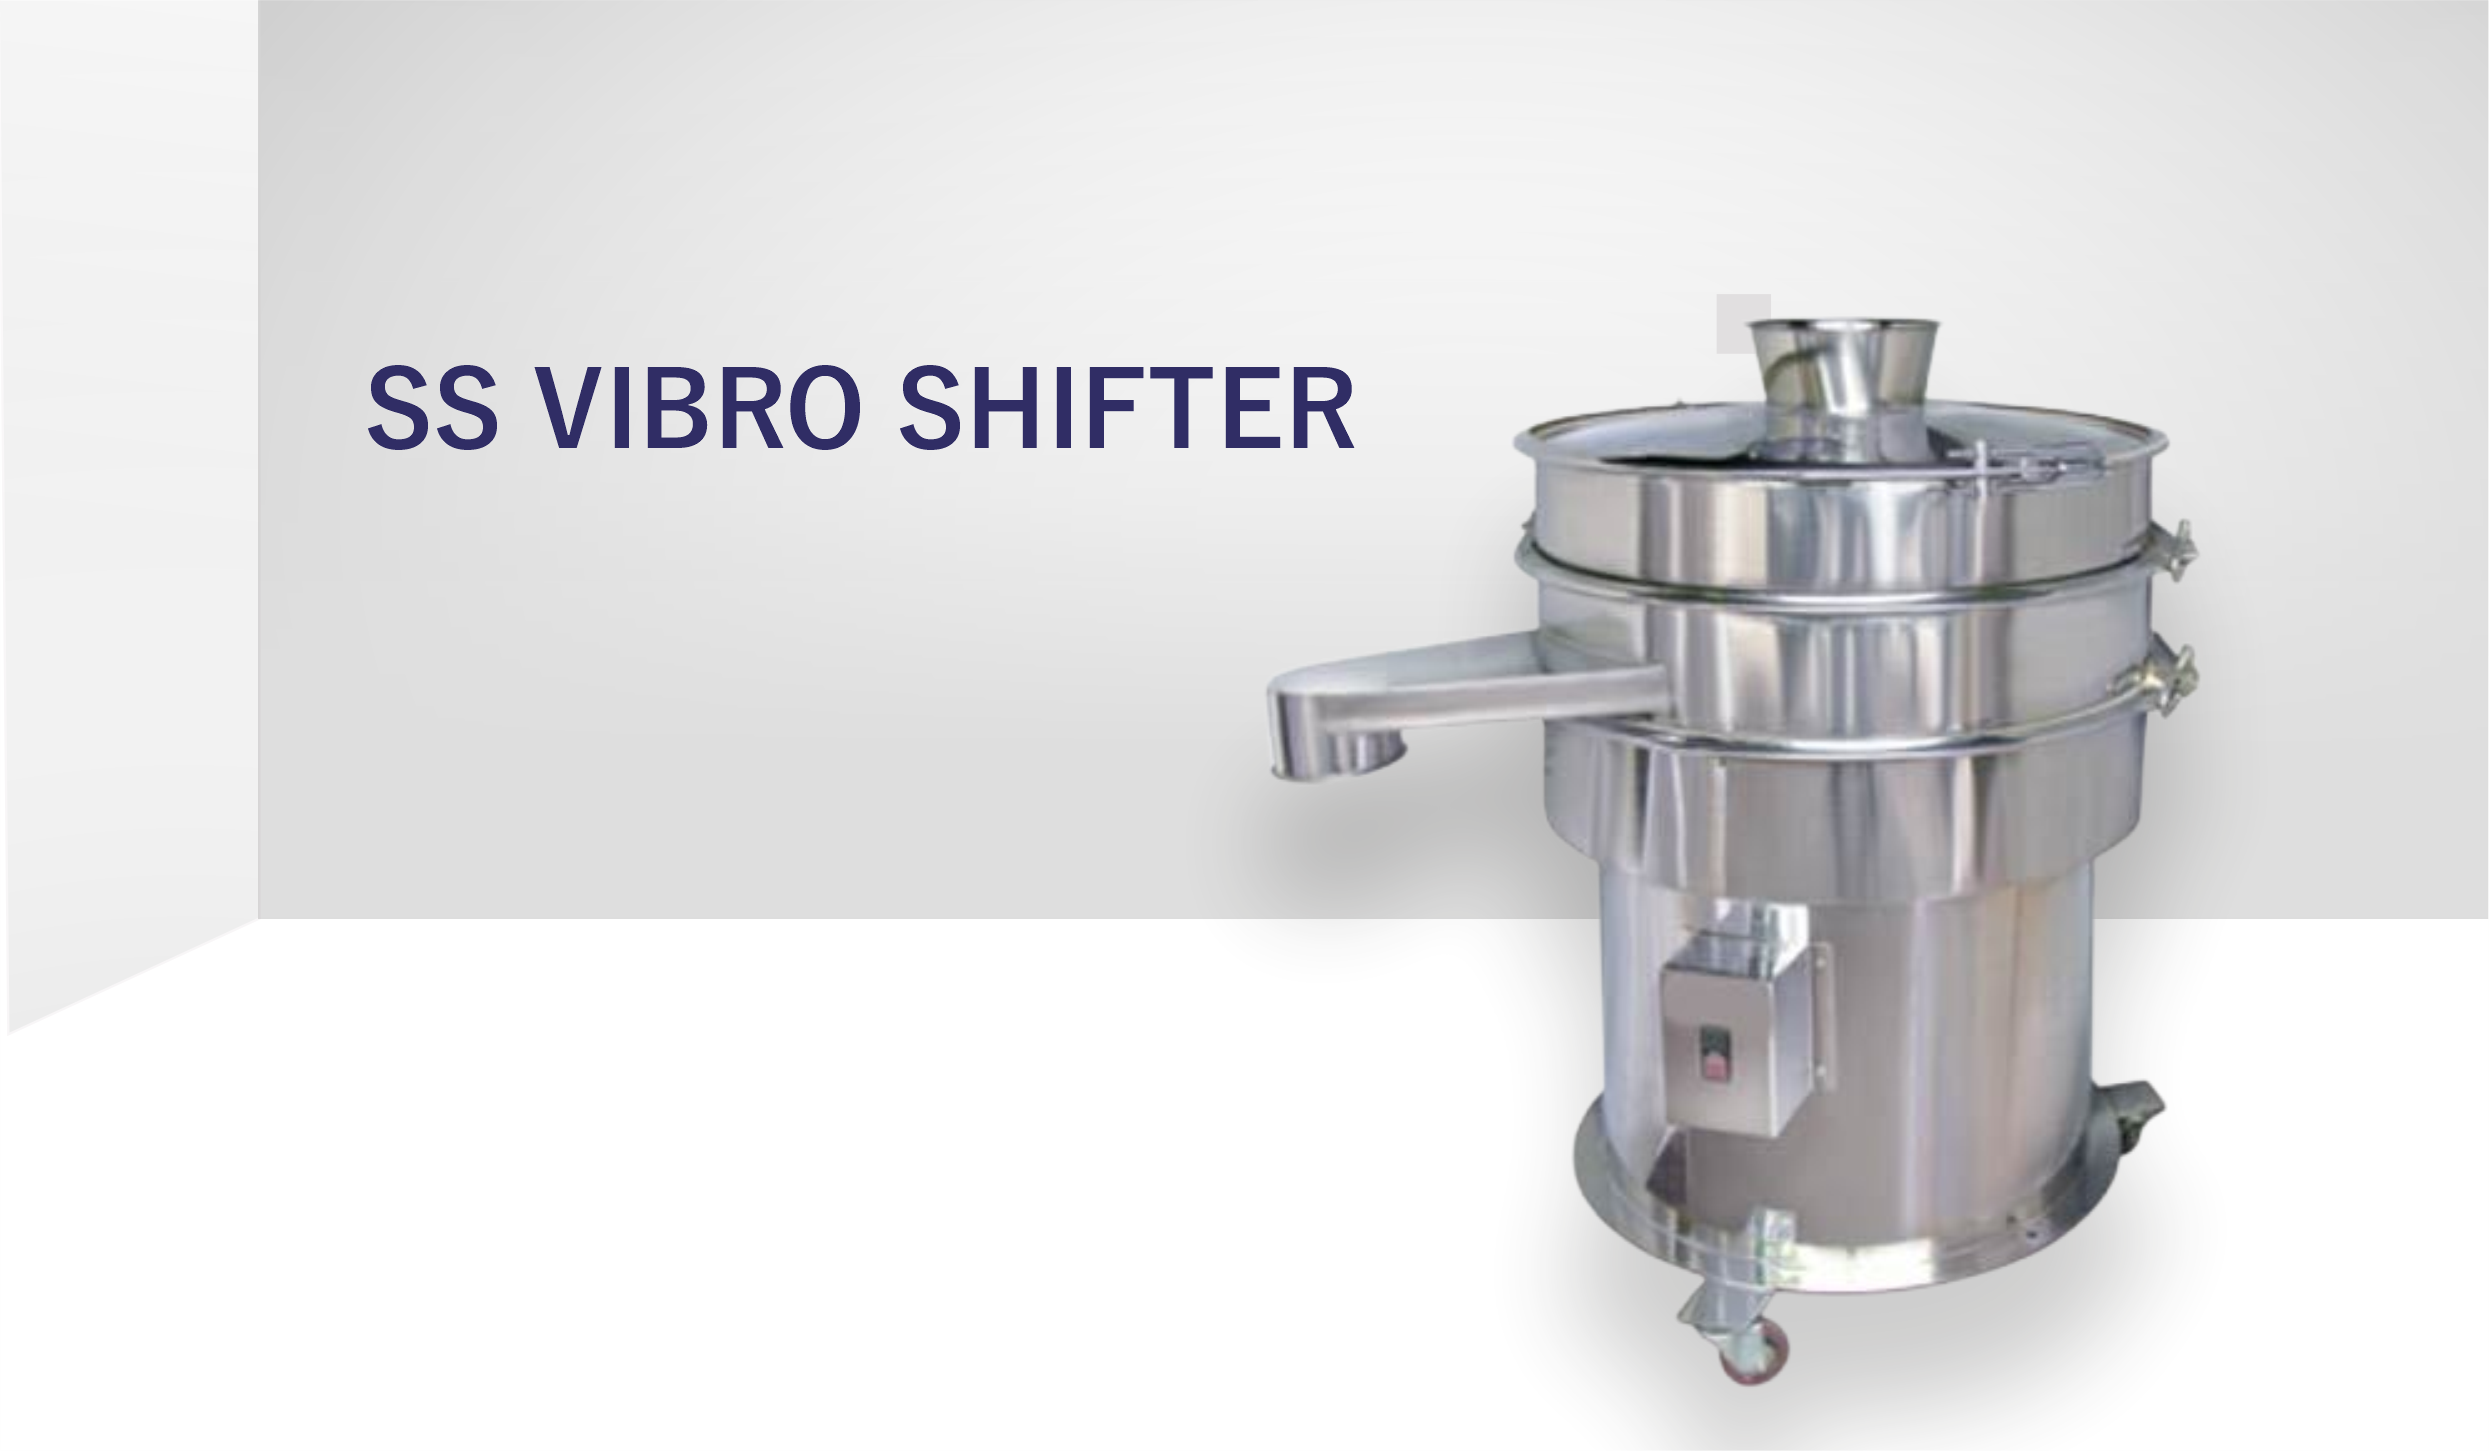
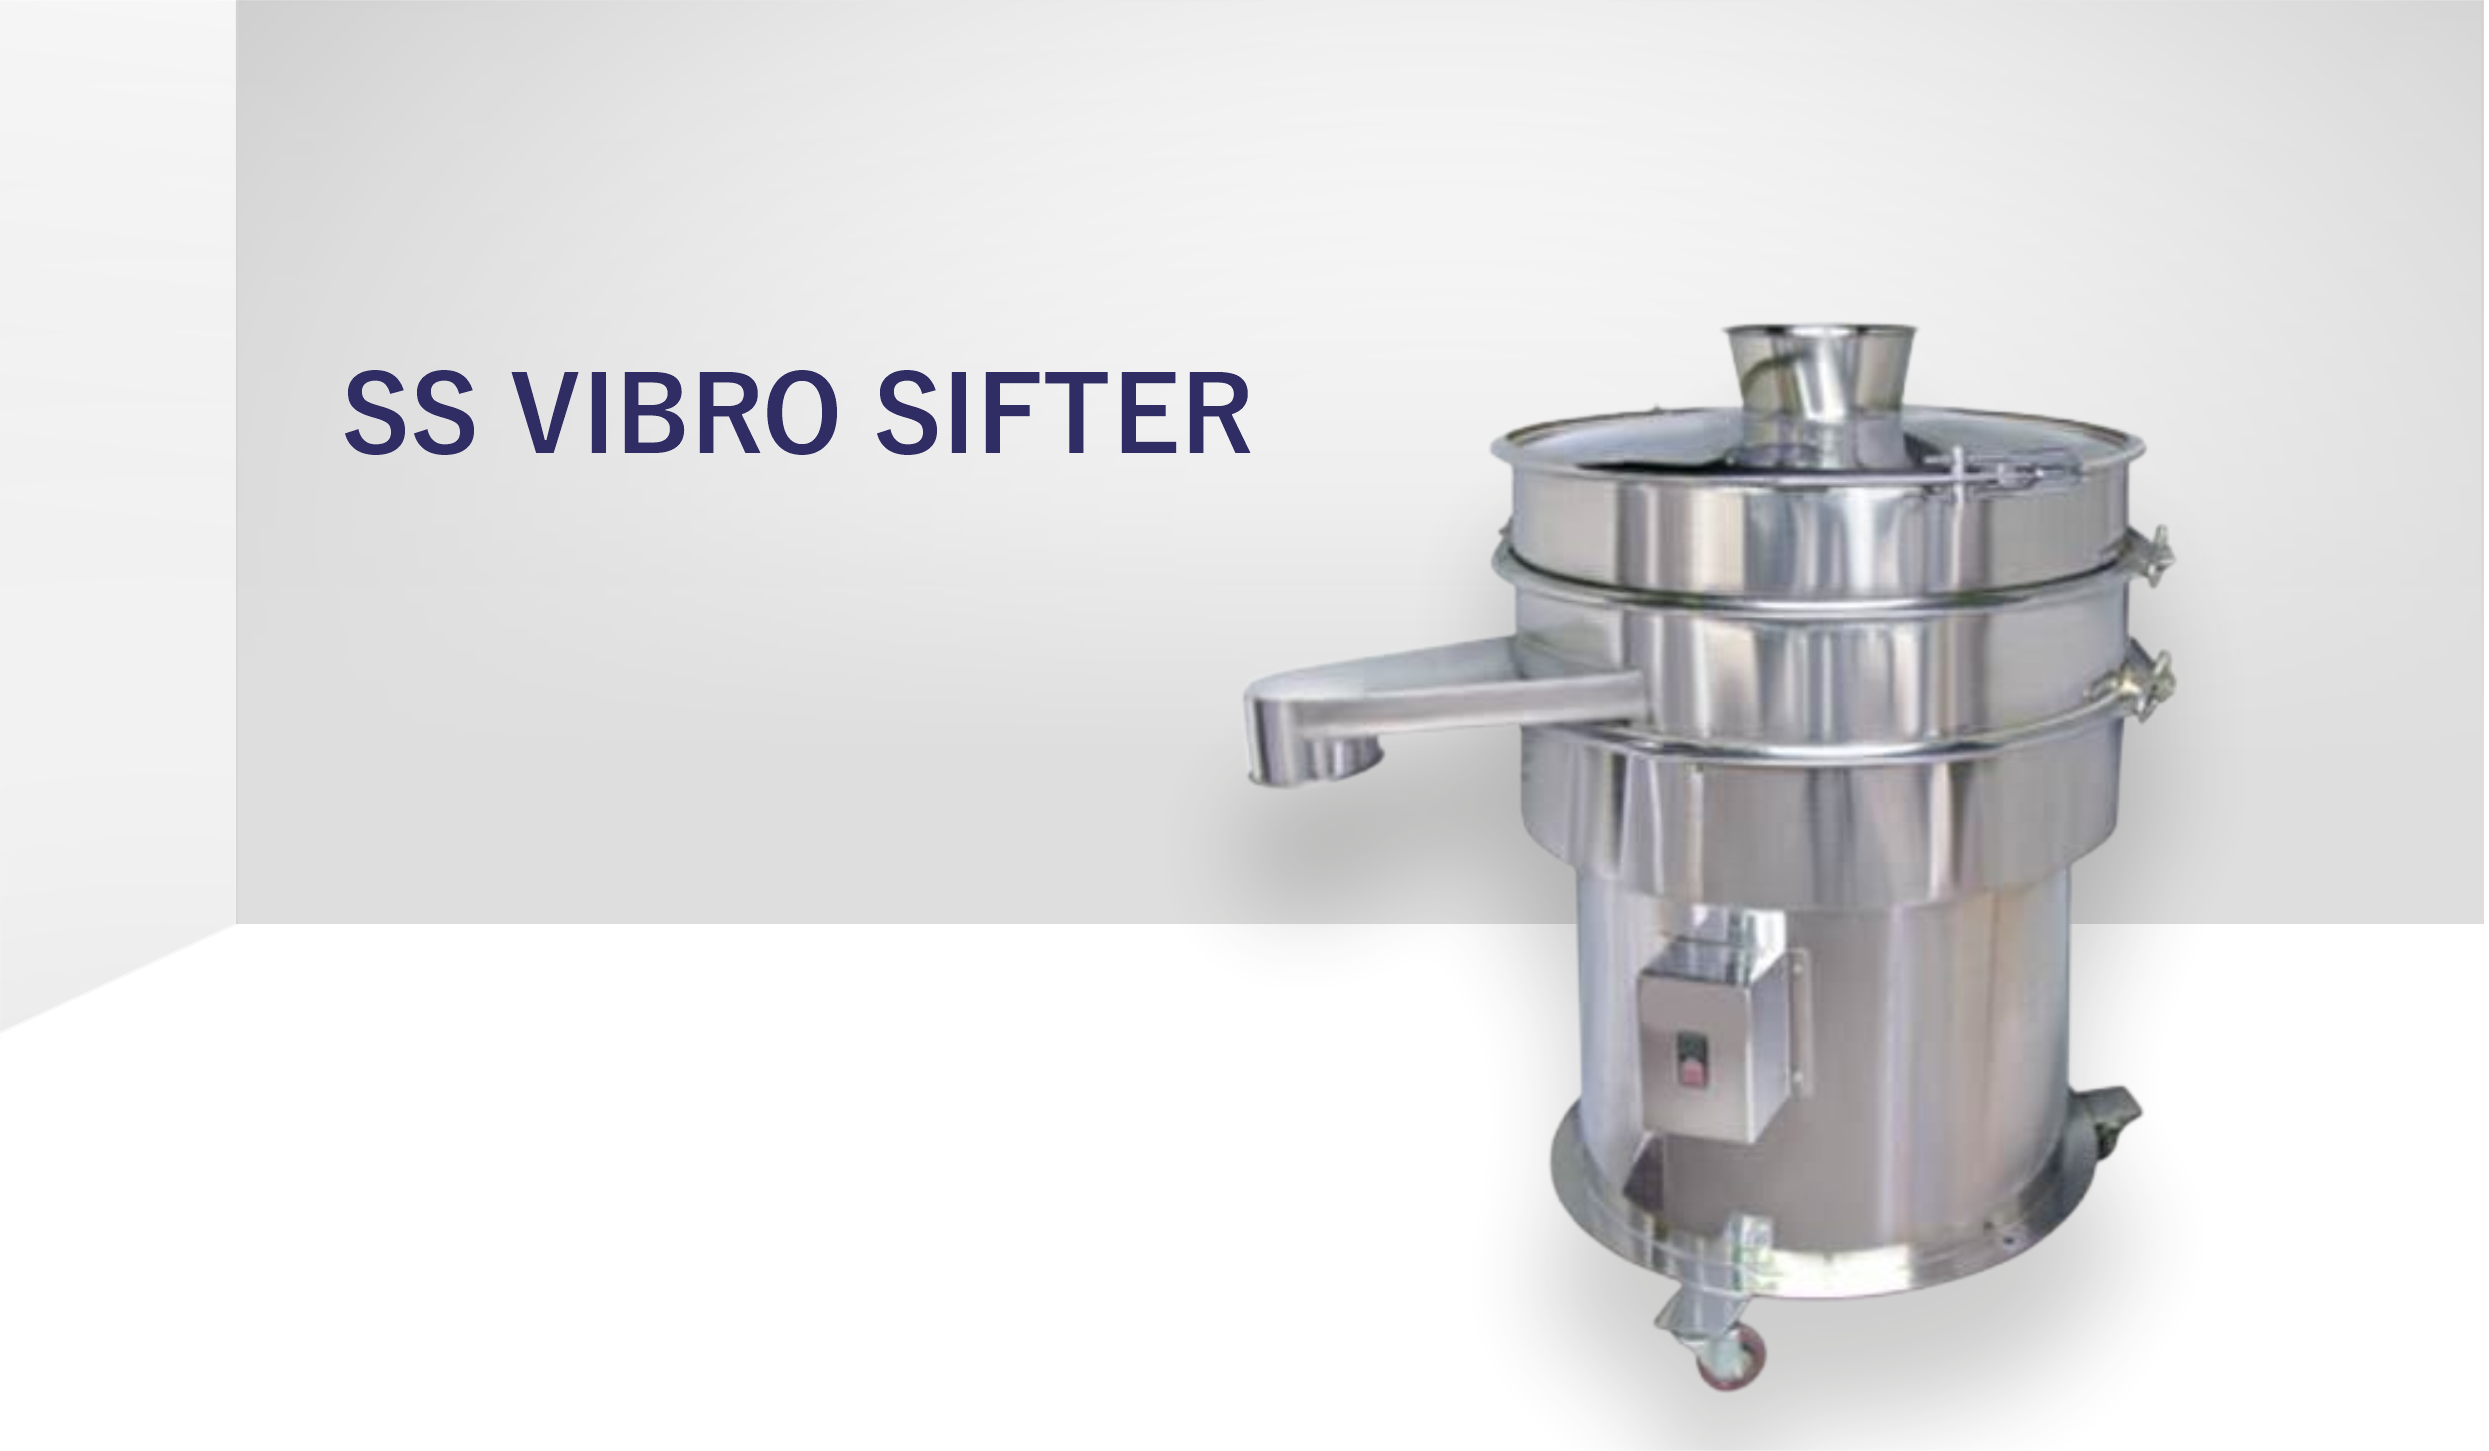
work on client changes sifter image change  and spelling err

Changed region(s): [[0.1237, 0.0, 1.0, 0.9614], [0.1237, 0.2481, 0.5569, 0.3101], [0.0928, 0.0, 0.1237, 0.2171]]

diff --git a/index.html b/index.html
@@ -69,8 +69,8 @@
               </div> -->
               <div class="dir-ltr  section_content" id="home_content">
 
-                <h1>Total Cleanroom Solutions under one roof </h1>
-                <p style=>Innovas Technobuild is a passionate turnkey project company incepted by a group of like minded
+                <h1>Total Cleanroom Solutions Under One Roof </h1>
+                <p style=>Innovas Techno Build is a passionate turnkey project company incepted by a group of like minded
                   professionals having rich demonstrate work experience. </p>
 
                 <div style="height: 40px;"></div>
@@ -99,7 +99,7 @@
               </div>
               <div class="dir-ltr alignleft section_content" id="abt_content">
                 <div>
-                  <p>Innovas Technobuild is a passionate turnkey project company incepted by a group of like minded
+                  <p>Innovas Techno Build is a passionate turnkey project company incepted by a group of like minded
                     professionals having rich demonstrate work experience. </p>
 
                   <p>Our team of engineering professional is immensely commited to offer wide range of technical and
@@ -706,15 +706,14 @@
 
 
               <h3 class="">CLEANROOM PANEL </h3>
-              <p class="project_details"> Cleanroom Panel system adapteda variety of cleanroom modular panel system.
-                The
-                Product has excellent performance, factory fabricating on site and easy instaltation.<span
+              <p class="project_details"> Cleanroom Panel system adapted a variety of cleanroom modular panel system.
+                The Product has excellent performance, factory fabricating on site and easy instaltation.<span
                   id="dots2">...</span><span id="more2">
-                  Moduler clean rooms are engineered and bulit to meet exact size and environmental
-                  requirements and specifications. t is required to control the contaminated particle in the
+                  Moduler clean rooms are engineered and built to meet exact size and environmental
+                  requirements and specifications. It is required to control the contaminated particle in the
                   room. It avoids the cross contamination. All components come with a performance
-                  guarantee. The modular clean room components are impact resistant, chemical&water
-                  resistant & non-shedding. haveexcellent fire rating, can be sanitized& are essential
+                  guarantee. The modular clean room components are impact resistant, chemical & water
+                  resistant & non-shedding. haveexcellent fire rating, can be sanitized & are essential
                   maintenance free </span></p>
               <p onclick="show_clean()" id="myBtns2" class=blue-text project_conent>Read more</p>
             </div>
@@ -729,8 +728,7 @@
 
 
               <h3>FLOORING SOLUTIONS</h3>
-              <p class="project_details">Epoxy/PU floor coatings are commonly used for commercial and industrial
-                flooring. Epoxy coatings are
+              <p class="project_details">Epoxy/PU floor coatings are commonly used in Pharmaceutical, Hospital, Automobile & Other Engineering Industries. Epoxy coatings are
                 normally applied over concrete floors to provide a highperformance, smooth, and durable<span
                   id="dots3">...</span><span id="more3">
                   surface that can last many years and withstand heavy loads. Many industrial sites, warehouses, and
@@ -752,13 +750,13 @@
 
 
               <h3>ELECTRICAL</h3>
-              <p class="project_details">Electrical installatlion Testing, Commissioning jobs for High Tension &Low
+              <p class="project_details">Electrical installatlion Testing, Commissioning jobs for High Tension & Low
                 Tension Electrical
-                Networks for industries, Commerctal Houses, Software labs, Research Labs<span id="dots4">...</span><span
+                Networks for industries, Commercial Houses, Software labs, Research Labs<span id="dots4">...</span><span
                   id="more4">
-                  Sport Complexes, Hospitals, Institution Building&Public Building
-                  Design&Manufacturing of electrical control Panels, MCC Panel, PCC Panel, Distribution
-                  Panel &AMF Panels etc.<span id="dots4">...</span><span id="more4">
+                  Sport Complexes, Hospitals, Institution Building & Public Building
+                  Design & Manufacturing of electrical control Panels, MCC Panel, PCC Panel, Distribution
+                  Panel & AMF Panels etc.<span id="dots4">...</span><span id="more4">
                     Annual Electricals Maintenance Contracts, Preventive Maintenance Job, Trouble shooting
                     & Breakdown Maintenance Jobs etc.</span></p>
               <p onclick="show_elec()" id="myBtns4" class="blue-text">Read more</p>
